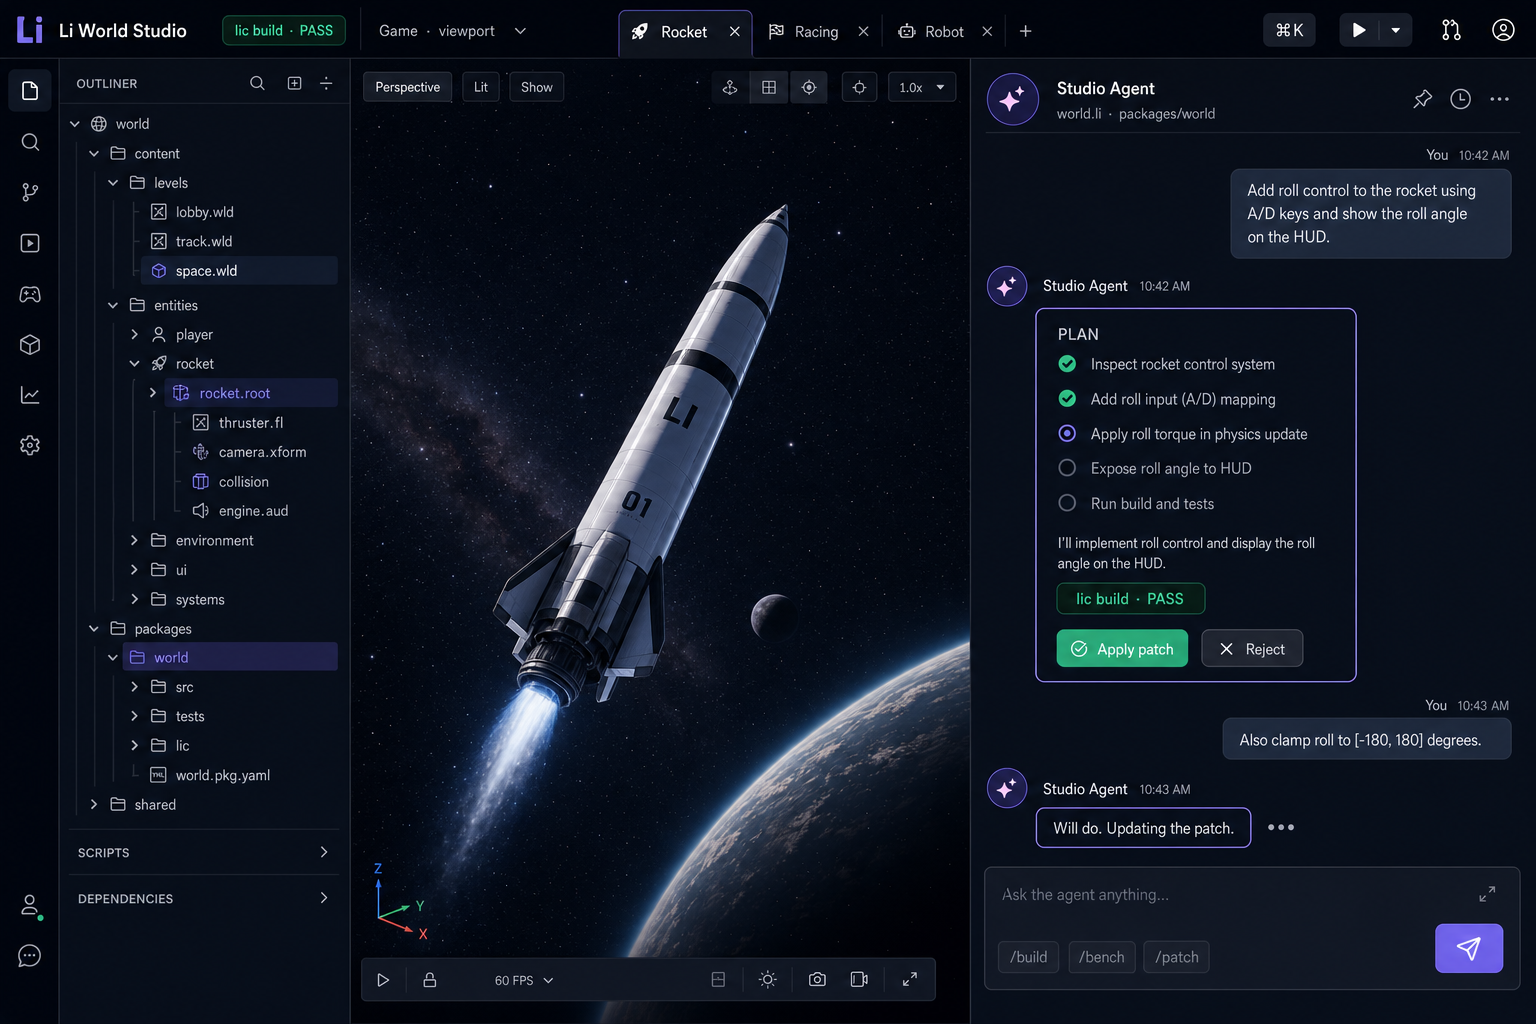
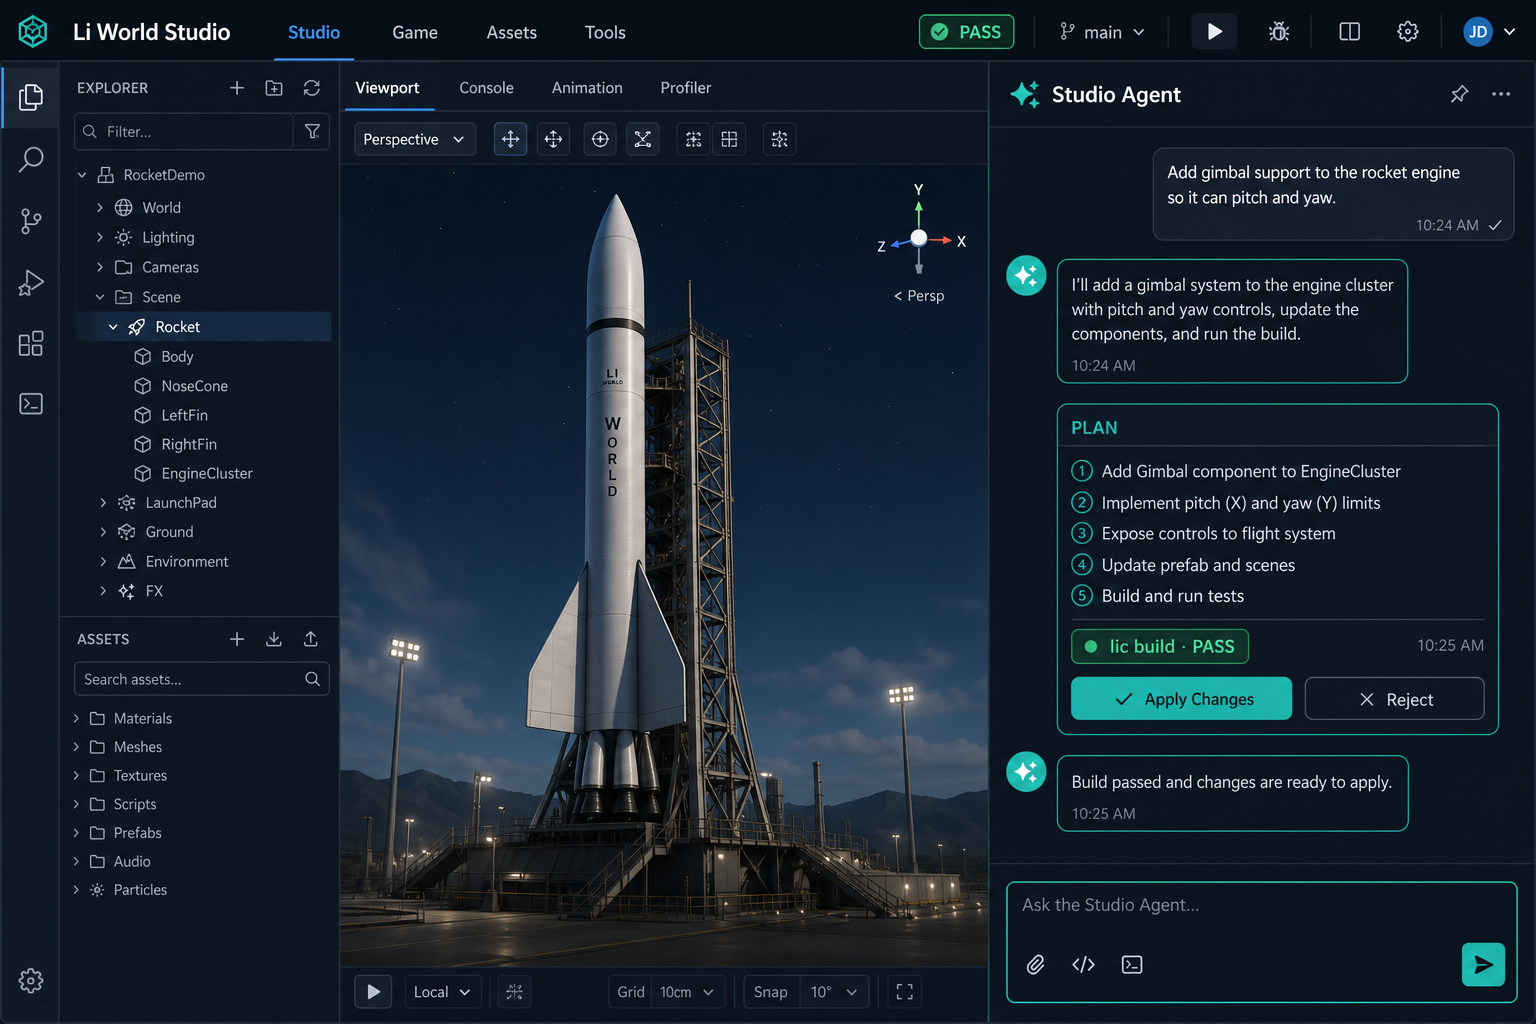
style(studio-demo): swap agent accent violet → teal
Agent dock, palette focus, and mockup use #2dd4bf teal aligned
with workspace blue; no violet in chrome tokens.

diff --git a/deploy/studio-demo/studio.css b/deploy/studio-demo/studio.css
@@ -5,12 +5,12 @@
   --bg-elevated: #1c2233;
   --bg-input: #12161f;
   --border: #2a3348;
-  --border-focus: #8b7cf7;
+  --border-focus: #2dd4bf;
   --text: #e8ecf4;
   --muted: #8b95a8;
   --accent: #5b9cf5;
-  --agent: #8b7cf7;
-  --agent-glow: rgba(139, 124, 247, 0.22);
+  --agent: #2dd4bf;
+  --agent-glow: rgba(45, 212, 191, 0.18);
   --pass: #34d399;
   --pass-bg: rgba(52, 211, 153, 0.12);
   --warn: #fbbf24;
@@ -55,7 +55,7 @@ body {
   display: grid;
   place-items: center;
   background: var(--agent-glow);
-  border: 1px solid rgba(139, 124, 247, 0.45);
+  border: 1px solid rgba(45, 212, 191, 0.45);
   border-radius: 8px;
   color: var(--agent);
   font-size: 0.9rem;
@@ -113,7 +113,7 @@ body {
   transition: background 0.15s, transform 0.1s;
 }
 .btn-primary {
-  background: linear-gradient(135deg, var(--agent) 0%, #6d5ce8 100%);
+  background: linear-gradient(135deg, var(--agent) 0%, #14b8a6 100%);
   color: #fff;
   padding: 0.38rem 0.85rem;
   font-size: 0.8rem;
@@ -277,11 +277,11 @@ body {
   color: var(--text);
   border-color: var(--border);
   background: var(--bg-elevated);
-  box-shadow: inset 0 0 0 1px rgba(139, 124, 247, 0.25);
+  box-shadow: inset 0 0 0 1px rgba(45, 212, 191, 0.25);
 }
 .tab[data-demo="agent"].active {
   color: var(--agent);
-  border-color: rgba(139, 124, 247, 0.5);
+  border-color: rgba(45, 212, 191, 0.5);
 }
 
 #viewport {
@@ -365,7 +365,7 @@ body {
 .agent-dock-head {
   padding: 0.65rem 0.75rem;
   border-bottom: 1px solid var(--border);
-  background: linear-gradient(135deg, rgba(139, 124, 247, 0.08) 0%, transparent 60%);
+  background: linear-gradient(135deg, rgba(45, 212, 191, 0.08) 0%, transparent 60%);
 }
 .agent-identity { display: flex; gap: 0.55rem; align-items: center; }
 .agent-avatar {
@@ -377,7 +377,7 @@ body {
   background: var(--agent-glow);
   color: var(--agent);
   font-size: 1rem;
-  border: 1px solid rgba(139, 124, 247, 0.4);
+  border: 1px solid rgba(45, 212, 191, 0.4);
 }
 .agent-name { display: block; font-weight: 600; font-size: 0.88rem; }
 .agent-context { display: block; color: var(--muted); font-size: 0.68rem; margin-top: 0.1rem; }
@@ -450,7 +450,7 @@ body {
 }
 .msg-agent .msg-bubble {
   background: var(--bg-elevated);
-  border: 1px solid rgba(139, 124, 247, 0.35);
+  border: 1px solid rgba(45, 212, 191, 0.35);
   border-bottom-left-radius: 4px;
   max-width: 96%;
 }
@@ -513,7 +513,7 @@ body {
 .btn-secondary {
   background: var(--agent-glow);
   color: var(--agent);
-  border-color: rgba(139, 124, 247, 0.35);
+  border-color: rgba(45, 212, 191, 0.35);
 }
 
 .gate-inline {
@@ -553,7 +553,7 @@ body {
 }
 .hint-chip:hover {
   color: var(--agent);
-  border-color: rgba(139, 124, 247, 0.5);
+  border-color: rgba(45, 212, 191, 0.5);
 }
 .agent-form {
   display: flex;
@@ -581,7 +581,7 @@ body {
   width: 36px;
   height: 36px;
   border-radius: var(--radius-sm);
-  background: linear-gradient(135deg, var(--agent), #6d5ce8);
+  background: linear-gradient(135deg, var(--agent), #14b8a6);
   color: #fff;
   font-size: 1rem;
   flex-shrink: 0;

diff --git a/docs/game-dev/planned-ui-mockups.md b/docs/game-dev/planned-ui-mockups.md
@@ -81,7 +81,7 @@ Visual targets for **Li World Studio** native shell — generated from [unified-
 | `--bg-deep` | `#0f1219` |
 | `--bg-surface` | `#161b26` |
 | `--bg-elevated` | `#1c2233` |
-| `--accent-agent` | `#8b7cf7` |
+| `--accent-agent` | `#2dd4bf` (teal — not violet) |
 | `--accent-workspace` | `#5b9cf5` |
 | `--pass` | `#34d399` |
 | `--fail` | `#f87171` |

diff --git a/docs/game-dev/specs/studio-ux-design-system-rfc.md b/docs/game-dev/specs/studio-ux-design-system-rfc.md
@@ -58,7 +58,7 @@ ui_command_palette_execute(cmd)
 | Phase | Deliverable |
 |-------|-------------|
 | **UX-0** ✅ | Types + smokes + composable gates |
-| **UX-1** ✅ | HTML demo: **hero agent dock** (chat bubbles, plan, Apply/Reject) + ⌘K palette · tokens `#0f1219` / `#8b7cf7` / `#34d399` |
+| **UX-1** ✅ | HTML demo: **hero agent dock** (chat bubbles, plan, Apply/Reject) + ⌘K palette · tokens `#0f1219` / `#2dd4bf` / `#34d399` |
 | **UX-2** | **Li-only native GUI** — [li-native-gui-plan.md](../plans/li-native-gui-plan.md) (iterate there) |
 | **UX-3** | `packages/li-gui` + `world-studio` target + `lic` |
 | **UX-4** | In-game creator UI — [li-gui-schema-rfc.md](li-gui-schema-rfc.md) |